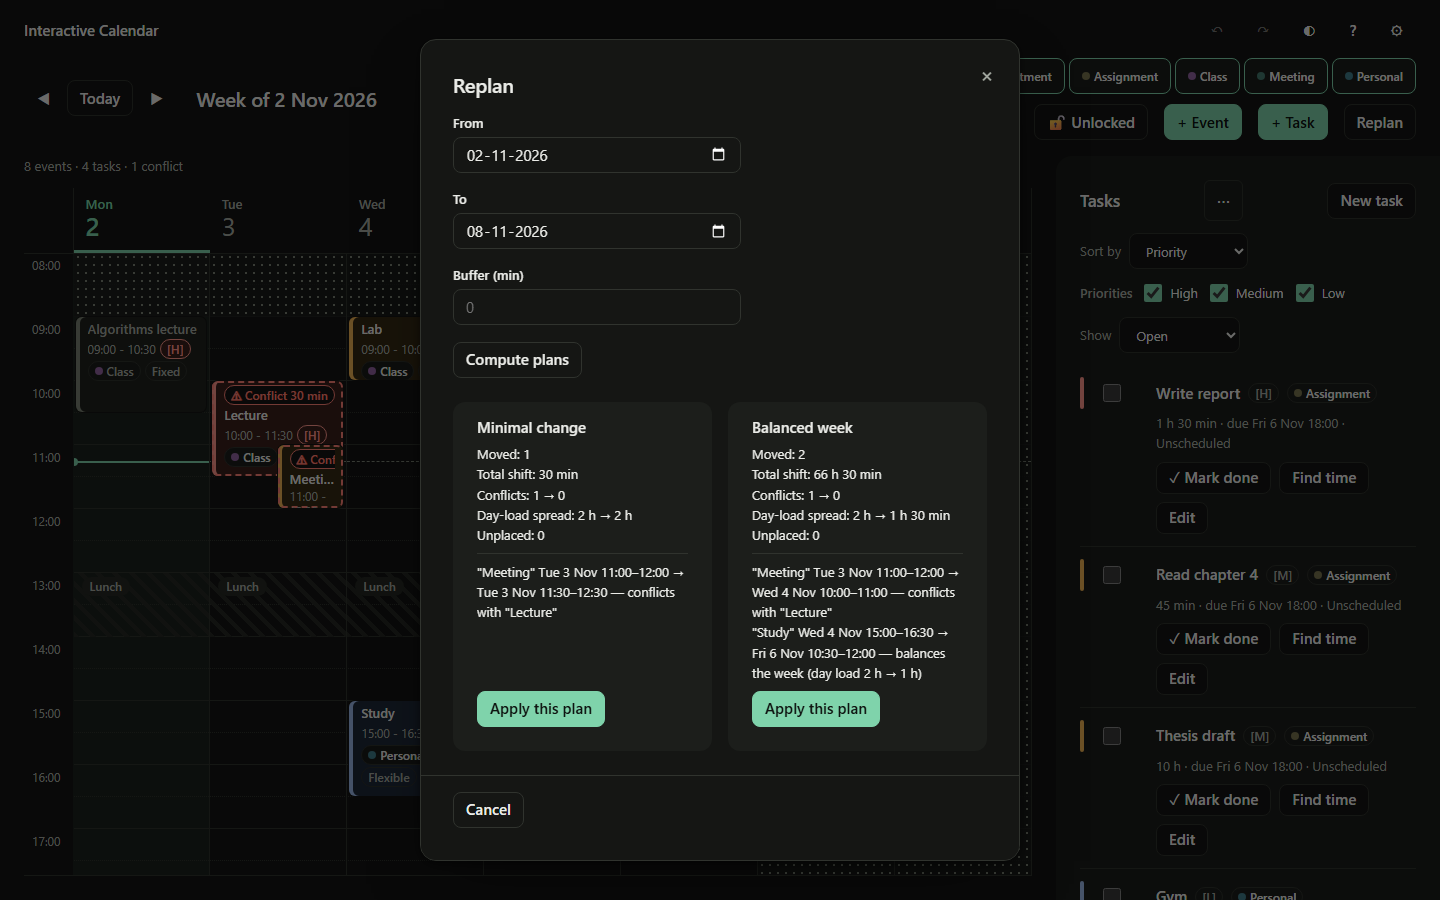
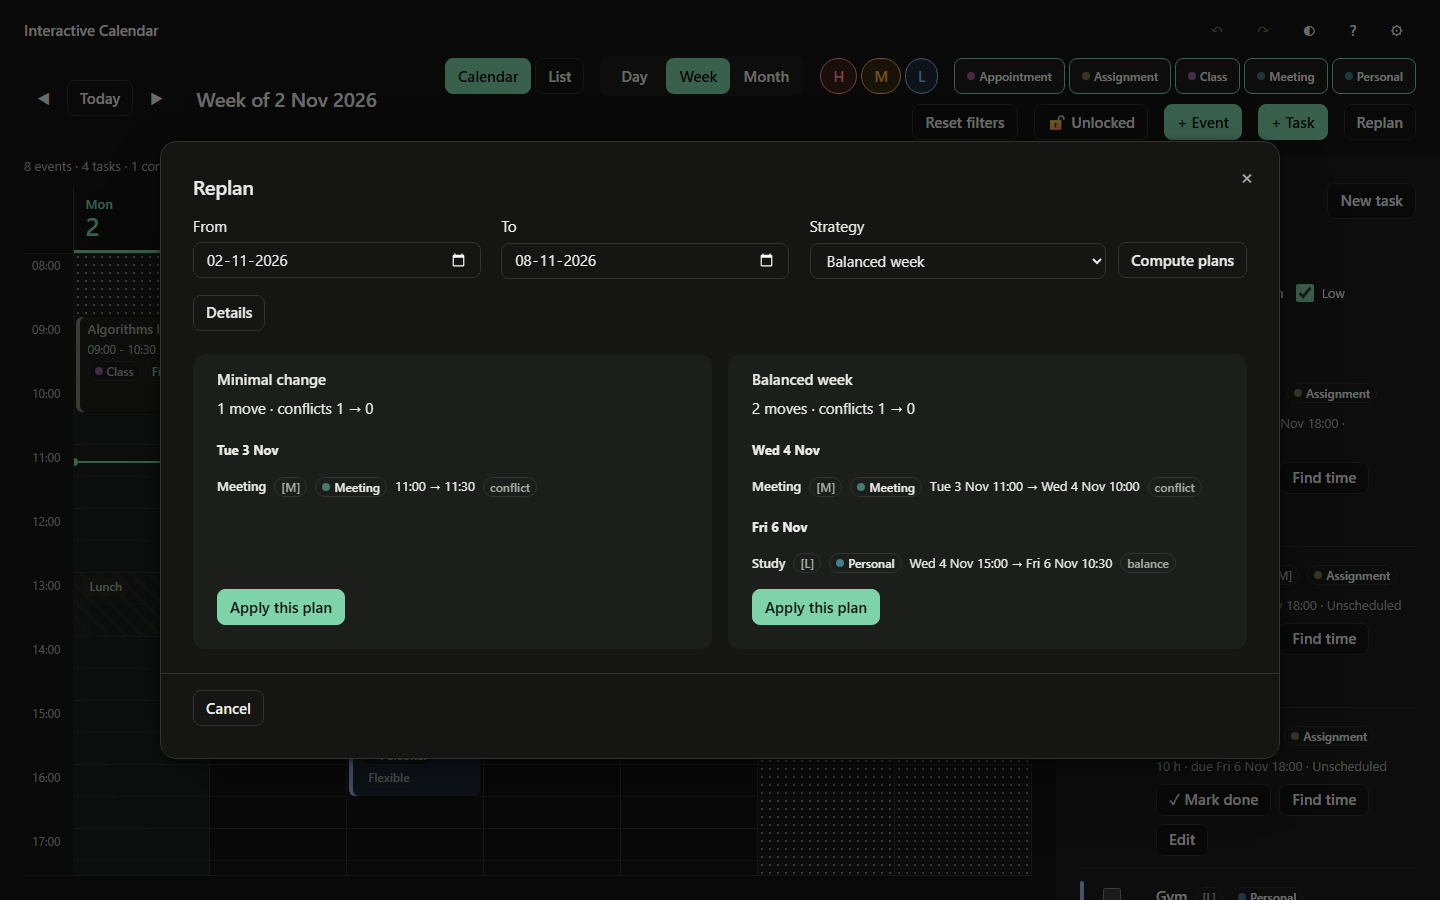
docs: record reviewed WI-55 Replan captures and final core gate

diff --git a/docs/progress/PROGRESS.md b/docs/progress/PROGRESS.md
@@ -7,7 +7,7 @@ Production URL: https://int-calendarfeature-creatures.vercel.app
 ## Current state
 
 - **Active WI:** WI-55 Replan strategies and dialog, claimed; branch `feat/wi-55-replan-strategies`.
-- **Last session:** 2026-11-13 · Codex · WI-55 engine and compact UI implemented test-first; core pre-spacing gate 830 + 1 skipped, coverage 98.36/94.00/98.08/98.61, algorithms 99.72/96.80/100/99.71, DST 9, ten properties × 10,000 and build green. Full 94-scenario captures running; first review corrected inherited card headline/section spacing. Final recaptures/browser/full gates remain.
+- **Last session:** 2026-11-13 · Codex · WI-55 final core gate green: 838 + 1 skipped, overall 98.56/94.27/98.17/98.79, algorithms 99.72/96.80/100/99.71, DST 9, ten properties × 10,000; fresh capture build. All 94 capture scenarios verified across runs, twelve final Replan recaptures pass; compact/Details reviewed both themes at 1440/1280/1024, 156 PNGs total. Full 135-run browser gate running; finish/merge/main gate next.
 - **Gate status:** 2026-11-13 on `main` at `d3bf189`: full gate green, 804 + 1 existing skipped, overall 98.52/94.19/98.13/98.76, algorithms 99.71/96.50/100/99.69, DST 9, six properties × 10,000, build, 114/114 browsers, zero retries.
 
 ## Work items
@@ -300,6 +300,7 @@ Binding design: `docs/extras/AUDIT_2.md` (D-01–D-19, C-01–C-08). Work in ord
   - 2026-11-13 · Codex · branch `feat/wi-55-replan-strategies` · done: all fourteen ranking/facade cases and four reason-label cases pass; full unit/coverage 826 + 1 skipped, overall 98.54/94.26/98.14/98.77; ten properties × 10,000 pass. Implemented validated optional strategy and required result.strategy, stable plan ids, shared numeric-key ranking, full-gap category ranking, earliest Front-load/Fewer-fragments, reason precedence; frozen docs/schema updated · next: test-first compact dialog/Details/single Not-moved group, store selector, adapted old assertions, browser/captures and final gates · note: initial direct-key fixture distinguished JS -0 from 0; its distance-fallback case now uses a positive category load, fourteen cases green. No existing assertion changed.
   - 2026-11-13 · Codex · branch `feat/wi-55-replan-strategies` · done: four compact-dialog regressions written and observed red for missing Strategy/Details/global Not-moved controls · next: implement selector/compact cards/day groups and shared collapsed diagnostics, retain old detailed assertions behind Details, then full gates/captures · note: engine checkpoint `321bfbc` is coherent; main remains green at `d3bf189`; this UI test-first checkpoint is deliberately red.
   - 2026-11-13 · Codex · branch `feat/wi-55-replan-strategies` · done: compact inputs/cards/day groups, shared collapsed diagnostics/partial-plan hints, Details and store selector implemented; four new UI and nineteen old dialog cases pass; full core 830 + 1 skipped, coverage 98.36/94.00/98.08/98.61, algorithms 99.72/96.80/100/99.71, DST 9, ten × 10,000 properties and build green. Added eight presentation derivation checks; all docs/README and old moved detailed assertions updated · next: finish current 94 captures, recapture all Replan scenes after spacing fix/tall Details context, review both themes/three widths, seven new browser checks plus complete 135-run gate, final core/merge/main gate · note: first capture found inherited auto margins on the headline and dialog-section spacing; fixed CSS only. No assertions removed; T40/diagnostic captures now assert one shared heading per D-15.
+  - 2026-11-13 · Codex · branch `feat/wi-55-replan-strategies` · done: final core gate 838 + 1 skipped, overall 98.56/94.27/98.17/98.79, algorithms 99.72/96.80/100/99.71, DST 9, ten properties × 10,000; all 94 capture scenarios verified (92 first run, two old named-region collisions fixed in product markup, all twelve Replan recaptures green). Reviewed all compact/Details widths/themes, 156 PNGs total, README links · next: finish current 135-run browser gate, finish/merge/full main gate, then WI-56 · note: day groups use headings and named move lists, leaving one named region per plan; every prior assertion retained or relocated for D-15. No further production changes planned.
 - [ ] **WI-56** Layout — owner S + Dv — depends on 55
   - Done when: Five regions at 1440, 1280 and 1024 (drawers) in both themes; no duplicate controls; e2e updated.
 - [ ] **WI-57** Visual system — owner S + Dv — depends on 56

diff --git a/docs/TEST_PLAN.md b/docs/TEST_PLAN.md
@@ -448,3 +448,4 @@ WI-31 completes local release preparation. User-reported production outcomes are
 | 2026-11-13 | v1.34 (WI-54 D-07): T54 atomic completion/reopen/bulk and UI/browser coverage. TaskDialog exact button lists add Mark done; T30 default status now includes scheduled tasks, while its explicit Unscheduled assertion remains. New bulk RTL tests render only their panel/dialog after expected initial failures on App; every assertion and timeout retained. |
 | 2026-11-13 | WI-54 final verification: 804 + 1 existing skip; overall 98.52/94.19/98.13/98.76, algorithms unchanged at 99.71/96.50/100/99.69; DST 9, six properties × 10,000, build, 114/114 browser runs, zero retries. All 88 capture scenarios verified across full/targeted runs; a trace-confirmed startup GET / 404 during an overlapping dist rebuild passed on stable rerun. Final done/bulk captures reviewed in both themes at all three widths, 144 PNGs total. |
 | 2026-11-13 | v1.35 (WI-55 D-15): T55 ranking, ten full property cases and compact UI/browser expectations; four new RTL regressions first failed, then passed. All prior detailed/assertion coverage retained in its new Details/shared location. Full pre-spacing unit gate 830 + 1 skipped, overall 98.36/94.00/98.08/98.61; DST 9 and ten properties × 10,000 pass. Final visual/browser gates remain in progress. |
+| 2026-11-13 | WI-55 final core/visual checkpoint: 838 + 1 existing skip, overall 98.56/94.27/98.17/98.79, algorithms 99.72/96.80/100/99.71, DST 9 and ten properties × 10,000. All 94 capture scenarios verified across full/targeted runs; twelve final Replan recaptures pass after spacing and redundant day-region fixes. Compact/Details views reviewed in both themes at 1440/1280/1024; 156 PNGs total. Complete browser gate remains pending. |
